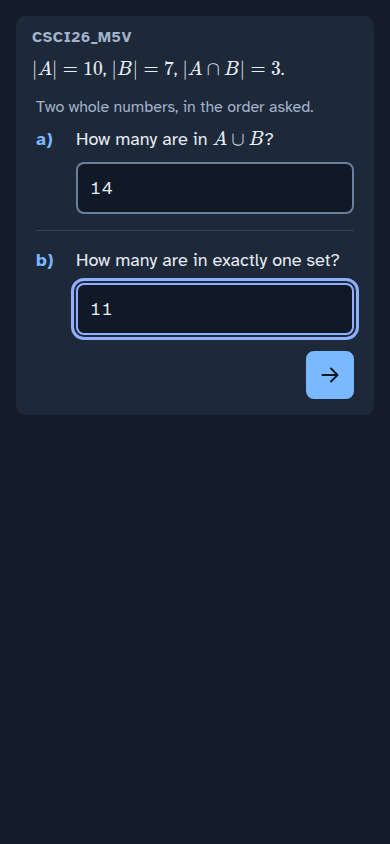
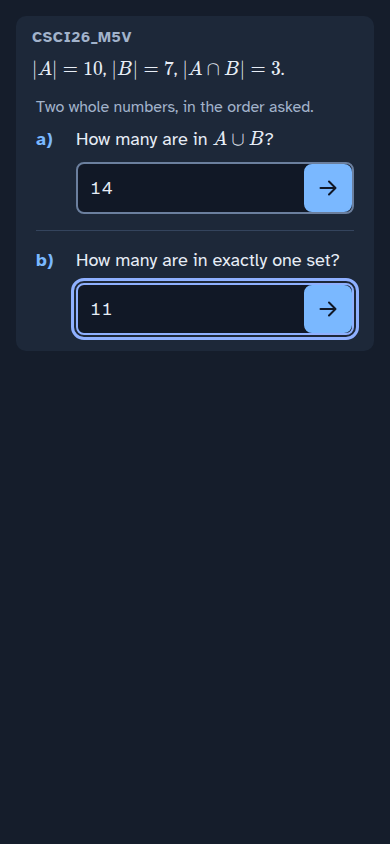
Multi is graded per part: own inline arrow, verdict, tries and lockout
- POST /check {code, part, answer}; state per (sid, code, part); the whole-set body is invalid
- each box has its own arrow, hidden while the box is empty, room reserved; right = green, wrong = bad + that part's hint, out of tries = dim
- problem finishes when every part is right or locked; solved only if all right (S.solved)
- gradeLocal mirrors it; copy payload tries/final/hints carry part
- SCHEMA.md Grading + payload schema, tests (python, node, render, disabled, swap), mockup and shots multi-perpart-*

Claude-Session: https://claude.ai/code/session_01EiTU7Y965fK6k3NLpJj9FC

Changed region(s): [[0.7692, 0.3389, 0.9231, 0.4929], [0.7692, 0.1848, 0.9231, 0.2773]]

diff --git a/design/mockups/multi-prompts.html b/design/mockups/multi-prompts.html
@@ -55,17 +55,16 @@ main { max-width: 52rem; margin: 0 auto; padding: var(--s5) var(--gut) var(--s7)
   display: grid; grid-template-columns: 2rem minmax(0, 1fr); grid-template-areas: "mk pr" ". bx";
   column-gap: var(--s2); row-gap: var(--s2); align-items: start;
 }
-.mparts .part.nopr { grid-template-areas: "mk bx" "mk bx"; }
+.mparts .part.nopr { grid-template-areas: "mk bx"; }
 .mparts .part + .part { padding-top: var(--s4); border-top: 1px solid var(--line); }
 .mparts .mk { grid-area: mk; font-weight: 700; color: var(--c1); }
 .mparts .pr { grid-area: pr; min-width: 0; overflow-wrap: anywhere; }
-.mparts .ff { grid-area: bx; }
-.mgo { display: flex; justify-content: flex-end; }
+.mparts .ff { grid-area: bx; position: relative; padding-right: 48px; }   /* room for the arrow is always reserved */
+.mparts .ff .btn { position: absolute; right: 0; top: 0; }   /* per-part arrow, flush inside the box; shown only once the box has text */
 @media (min-width: 40rem) {
-  .mparts .part { grid-template-columns: 2rem minmax(0, 1fr) 14rem; grid-template-areas: "mk pr bx"; column-gap: var(--s3); }
+  .mparts .part { grid-template-columns: 2rem minmax(0, 1fr) 16rem; grid-template-areas: "mk pr bx"; column-gap: var(--s3); }
   .mparts .part.nopr { grid-template-areas: "mk . bx"; }
   .mparts .mk, .mparts .pr { padding-top: var(--s3); }   /* first text line centred on the 52px box */
-  .mgo { padding-left: 0; }
 }
 
 /* mockup page only: which card shows */
@@ -89,14 +88,13 @@ body:has(#three:target) #two { display: none; }
           <div class="part">
             <span class="mk" id="m2a" aria-hidden="true">a)</span>
             <div class="pr md" id="p2a"><p data-tex>How many are in $A \cup B$?</p></div>
-            <div class="ff"><input class="ans" type="text" value="14" aria-labelledby="p2a" autocomplete="off"></div>
+            <div class="ff"><input class="ans" type="text" value="14" aria-labelledby="p2a" autocomplete="off"><button type="button" class="btn btn-go" aria-label="Submit a)"><svg class="ico" aria-hidden="true"><use href="#i-go"/></svg></button></div>
           </div>
           <div class="part">
             <span class="mk" id="m2b" aria-hidden="true">b)</span>
             <div class="pr md" id="p2b"><p data-tex>How many are in exactly one set?</p></div>
-            <div class="ff focus"><input class="ans" type="text" value="11" aria-labelledby="p2b" autocomplete="off"></div>
+            <div class="ff focus"><input class="ans" type="text" value="11" aria-labelledby="p2b" autocomplete="off"><button type="button" class="btn btn-go" aria-label="Submit b)"><svg class="ico" aria-hidden="true"><use href="#i-go"/></svg></button></div>
           </div>
-          <div class="mgo"><button type="button" class="btn btn-go" aria-label="Submit answers"><svg class="ico" aria-hidden="true"><use href="#i-go"/></svg></button></div>
         </div>
       </div>
     </div>
@@ -114,19 +112,18 @@ body:has(#three:target) #two { display: none; }
           <div class="part">
             <span class="mk" aria-hidden="true">a)</span>
             <div class="pr md" id="p3a"><p data-tex>How many are in $A \cup B$?</p></div>
-            <div class="ff"><input class="ans" type="text" value="14" aria-labelledby="p3a" autocomplete="off"></div>
+            <div class="ff"><input class="ans" type="text" value="14" aria-labelledby="p3a" autocomplete="off"><button type="button" class="btn btn-go" aria-label="Submit a)"><svg class="ico" aria-hidden="true"><use href="#i-go"/></svg></button></div>
           </div>
           <div class="part">
             <span class="mk" aria-hidden="true">b)</span>
             <div class="pr md" id="p3b"><p data-tex>How many are in exactly one set?</p></div>
-            <div class="ff"><input class="ans" type="text" value="11" aria-labelledby="p3b" autocomplete="off"></div>
+            <div class="ff"><input class="ans" type="text" value="11" aria-labelledby="p3b" autocomplete="off"><button type="button" class="btn btn-go" aria-label="Submit b)"><svg class="ico" aria-hidden="true"><use href="#i-go"/></svg></button></div>
           </div>
           <div class="part">
             <span class="mk" aria-hidden="true">c)</span>
             <div class="pr md" id="p3c"><p data-tex>How many are in neither $A$ nor $B$?</p></div>
             <div class="ff focus"><input class="ans" type="text" value="" aria-labelledby="p3c" autocomplete="off"></div>
           </div>
-          <div class="mgo"><button type="button" class="btn btn-go" aria-label="Submit answers" disabled><svg class="ico" aria-hidden="true"><use href="#i-go"/></svg></button></div>
         </div>
       </div>
     </div>
